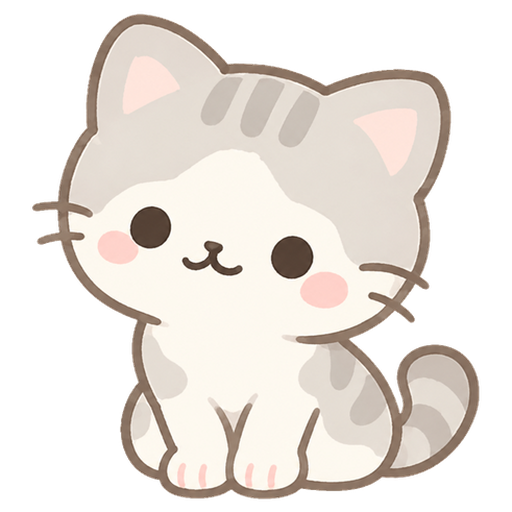
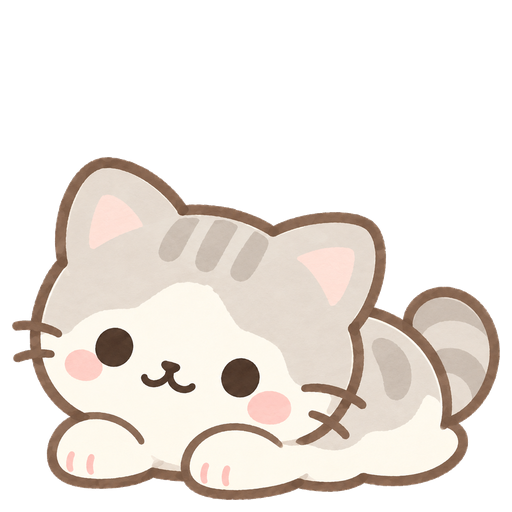
fix: 시그니처 눕기를 재제작하고 표정 모션 추가

diff --git a/src/components/room/__tests__/character-avatar.test.tsx b/src/components/room/__tests__/character-avatar.test.tsx
@@ -22,14 +22,24 @@ describe('CharacterAvatar', () => {
         prefetchFrames
       />,
     );
-    const seated = screen.getByTestId('approved-character').props.source;
+    const lying = screen.getByTestId('approved-character').props.source;
     expect(screen.queryByTestId('cdn-animation')).toBeNull();
     expect(prefetch).not.toHaveBeenCalled();
-    await screen.rerender(<CharacterAvatar characterId="cat" pose={1} />);
+    expect(lying).toEqual([
+      expect.objectContaining({ testUri: expect.stringContaining('cat-approved-idle') }),
+    ]);
+    const names = ['blink', 'wink', 'seated', 'wave'];
+    for (let pose = 1; pose <= names.length; pose++) {
+      await screen.rerender(<CharacterAvatar characterId="cat" pose={pose} />);
+      expect(screen.getByTestId('approved-character').props.source).toEqual([
+        expect.objectContaining({
+          testUri: expect.stringContaining(`cat-approved-${names[pose - 1]}`),
+        }),
+      ]);
+    }
     const wave = screen.getByTestId('approved-character').props.source;
-    expect(wave).not.toEqual(seated);
-    await screen.rerender(<CharacterAvatar characterId="cat" pose={2} />);
-    expect(screen.getByTestId('approved-character').props.source).toEqual(seated);
+    await screen.rerender(<CharacterAvatar characterId="cat" pose={5} />);
+    expect(screen.getByTestId('approved-character').props.source).toEqual(lying);
     await screen.rerender(<CharacterAvatar characterId="cat" pose={-1} />);
     expect(screen.getByTestId('approved-character').props.source).toEqual(wave);
   });

diff --git a/src/resources/character-art.ts b/src/resources/character-art.ts
@@ -1,11 +1,14 @@
 import type { CharacterId } from '@/constants/characters';
 
 import catIdle from '@/assets/images/characters/cat-approved-idle.webp';
+import catBlink from '@/assets/images/characters/cat-approved-blink.webp';
+import catWink from '@/assets/images/characters/cat-approved-wink.webp';
+import catSeated from '@/assets/images/characters/cat-approved-seated.webp';
 import catWave from '@/assets/images/characters/cat-approved-wave.webp';
 
 /** Reviewed poses supersede legacy server art until a new set is approved. */
 const APPROVED_POSES: Partial<Record<CharacterId, readonly number[]>> = {
-  cat: [catIdle, catWave],
+  cat: [catIdle, catBlink, catWink, catSeated, catWave],
 };
 
 export function approvedCharacterPoses(characterId: CharacterId) {

diff --git a/src/dev/registry.tsx b/src/dev/registry.tsx
@@ -521,7 +521,8 @@ export const galleryEntries: GalleryEntry[] = [
   },
   {
     name: 'Room · 승인된 고양이',
-    description: '앉기와 앞발 인사 두 포즈. 탭할 때 얼굴 크기와 발의 바닥 위치를 확인합니다.',
+    description:
+      '시그니처 눕기 → 눈깜빡임 → 윙크 → 앉기 → 인사. 눕기 원화와 표정 모션의 일관성을 확인합니다.',
     render: () => (
       <View style={{ width: 320, alignSelf: 'center' }}>
         <Room characterId="cat" interactiveCharacter />

diff --git a/scripts/build-signature-cat.py b/scripts/build-signature-cat.py
@@ -1,0 +1,79 @@
+"""시그니처 눕기 원화에서 눈만 바꾸어 깜빡임/윙크를 생성한다.
+
+Python 3, Pillow, numpy 필요. build-approved-cat.py 실행 후 실행한다.
+"""
+from pathlib import Path
+import json
+import numpy as np
+from PIL import Image, ImageDraw, ImageFilter, ImageSequence
+
+ROOT = Path(__file__).resolve().parents[1]
+SRC = ROOT / 'assets/characters/cat-approved'
+OUT = ROOT / 'assets/images/characters'
+base = Image.open(SRC / 'lying-master.png').convert('RGBA')
+closed = Image.open(SRC / 'lying-closed-reference.png').convert('RGBA')
+assert base.size == closed.size == (1254, 1254)
+eye_boxes = [(212, 618, 347, 762), (525, 695, 659, 838)]
+masks = []
+for box in eye_boxes:
+    mask = Image.new('L', base.size)
+    ImageDraw.Draw(mask).ellipse(box, fill=255)
+    masks.append(mask.filter(ImageFilter.GaussianBlur(4)))
+
+def expression(indices):
+    result = base.copy()
+    for index in indices:
+        result = Image.composite(closed, result, masks[index])
+    result.putalpha(base.getchannel('A'))
+    return result
+
+blink = expression([0, 1])
+wink = expression([1])
+outside_eyes = (np.asarray(masks[0]) == 0) & (np.asarray(masks[1]) == 0)
+for frame in (blink, wink):
+    assert np.array_equal(np.asarray(frame)[outside_eyes], np.asarray(base)[outside_eyes])
+
+# All lying expressions use the same crop, scale and ground anchor.
+bounds = base.getbbox()
+width, height = bounds[2] - bounds[0], bounds[3] - bounds[1]
+scale = 488 / max(width, height)
+size = (round(width * scale), round(height * scale))
+offset = ((512 - size[0]) // 2, 500 - size[1])
+
+def normalize(im):
+    canvas = Image.new('RGBA', (512, 512))
+    canvas.alpha_composite(im.crop(bounds).resize(size, Image.Resampling.LANCZOS), offset)
+    return canvas
+
+base, blink, wink = [normalize(im) for im in (base, blink, wink)]
+OUT.mkdir(exist_ok=True, parents=True)
+base.save(OUT / 'cat-approved-idle.webp', lossless=True, method=6)
+
+def save_loop(name, expressions, durations):
+    path = OUT / f'cat-approved-{name}.webp'
+    expressions[0].save(path, save_all=True, append_images=expressions[1:],
+                        duration=durations, loop=0, lossless=True, method=6)
+    encoded = Image.open(path)
+    arrays, actual_durations = [], []
+    for frame in ImageSequence.Iterator(encoded):
+        arrays.append(np.asarray(frame.convert('RGBA')))
+        actual_durations.append(frame.info['duration'])
+    assert sum(actual_durations) == 4000
+    assert all(np.array_equal(a[:, :, 3], arrays[0][:, :, 3]) for a in arrays)
+    # The nose, mouth, paws, silhouette and entire back/tail stay fixed.
+    for x0, y0, x1, y1 in [(145, 360, 210, 399), (0, 420, 512, 512), (395, 0, 512, 512)]:
+        assert all(np.array_equal(a[y0:y1, x0:x1], arrays[0][y0:y1, x0:x1]) for a in arrays)
+    visible = arrays[0][:, :, 3] > 0
+    assert np.array_equal(arrays[0][visible], arrays[-1][visible])
+    return {'duration_ms': sum(actual_durations), 'encoded_frames': len(arrays),
+            'fixed_alpha': True, 'fixed_body': True, 'seamless_visible_loop': True}
+
+checks = {
+    'blink': save_loop('blink', [base, blink, base, blink, base], [1700, 90, 110, 90, 2010]),
+    'wink': save_loop('wink', [base, wink, base], [1200, 650, 2150]),
+}
+report = {'default_pose': 'lying', 'size': [512, 512], 'ground_y': 500,
+          'eye_boxes_source': eye_boxes, 'pixels_outside_eye_masks_unchanged': True,
+          'poses': ['lying', 'blink', 'wink', 'seated', 'wave'], 'loops': checks}
+(SRC / 'signature-verification.json').write_text(json.dumps(report, indent=2) + '\n')
+print(json.dumps(report))

diff --git a/scripts/build-approved-cat.py b/scripts/build-approved-cat.py
@@ -39,19 +39,22 @@ left = (x0 + x1 - side) // 2
 crop = (left, y1 + 12 - side, left + side, y1 + 12)
 
 def normalize(im):
-    return im.crop(crop).resize((512, 512), Image.Resampling.LANCZOS)
+    pose = im.crop(crop).resize((460, 460), Image.Resampling.LANCZOS)
+    canvas = Image.new('RGBA', (512, 512))
+    canvas.alpha_composite(pose, (26, 51))
+    return canvas
 
 idle = normalize(idle)
 frames = [normalize(frame) for frame in frames]
 OUT.mkdir(parents=True, exist_ok=True)
-idle.save(OUT / 'cat-approved-idle.webp', lossless=True, method=6)
+idle.save(OUT / 'cat-approved-seated.webp', lossless=True, method=6)
 frames[0].save(OUT / 'cat-approved-wave.webp', save_all=True, append_images=frames[1:],
                duration=durations, loop=0, lossless=True, method=6)
 
 # Animation must contain a visible, fixed face and a seamless loop.
-face = np.asarray(frames[0].crop((120, 175, 320, 270)))
+face = np.asarray(frames[0].crop((120, 225, 330, 320)))
 assert face[:, :, 3].mean() > 245
-assert all(np.array_equal(face, np.asarray(f.crop((120, 175, 320, 270)))) for f in frames)
+assert all(np.array_equal(face, np.asarray(f.crop((120, 225, 330, 320)))) for f in frames)
 assert np.array_equal(np.asarray(frames[0]), np.asarray(frames[-1]))
 
 # WebP may discard RGB underneath alpha=0. Verify decoded visible pixels too.
@@ -61,9 +64,9 @@ first, last = decoded[0], decoded[-1]
 assert np.array_equal(first[:, :, 3], last[:, :, 3])
 visible = first[:, :, 3] > 0
 assert np.array_equal(first[visible], last[visible])
-assert all(np.array_equal(first[175:270, 120:320], f[175:270, 120:320]) for f in decoded)
+assert all(np.array_equal(first[225:320, 120:330], f[225:320, 120:330]) for f in decoded)
 metadata = {'size': [512, 512], 'duration_ms': sum(durations), 'crop_at_677x581': crop,
             'wave_face_max_difference': 0, 'wave_first_last_visible_difference': 0,
-            'source_frames': len(frames), 'poses': ['seated', 'wave']}
+            'seated_normalization_scale': 460 / 512, 'source_frames': len(frames), 'poses': ['seated', 'wave']}
 (SRC / 'verification.json').write_text('{\n' + ',\n'.join('  ' + json.dumps(k) + ': ' + json.dumps(v) for k, v in metadata.items()) + '\n}\n')
 print(json.dumps(metadata))

diff --git a/docs/cat-art-renewal.md b/docs/cat-art-renewal.md
@@ -1,40 +1,49 @@
-# 고양이 원화 통일
+# 고양이 시그니처 포즈 리뉴얼
 
-관련 이슈: #1250. 2026-09-09 사용자가 승인한 앉은 고양이와 해당 원화에서 앞발만 변형한 Blender 인사를 사용한다.
+관련 이슈: #1250. 누워 있는 시그니처를 기본 자세로 유지하면서 같은 원화에서 표정 모션을 만든다. 기존 앉기 시안과 Blender 인사는 추가 포즈로 제공한다.
 
-## 표시 규칙
+## 표시 순서
 
-- 고양이: `cat-approved-idle.webp`(앉기) → `cat-approved-wave.webp`(인사) → 앉기.
-- `CharacterAvatar`는 고양이의 서버 `poses`/`animations`보다 승인된 번들 포즈를 우선한다. 옛 서버 이미지 프리페치는 생략한다.
-- 캐릭터 선택창은 고양이의 `baseAssetKey` 대신 같은 승인 원화를 사용한다.
-- 뽑기 결과의 `characters/cat/...`, `characters/cat_...`, `characters/cat.png` 계열 이미지 키는 승인된 앉기 원화로 표시한다. 가구·다른 동물은 기존 경로를 유지한다.
-- 서버 캐릭터 보유 상태·선택 ID·카탈로그 데이터는 바꾸지 않는다. 이후 고양이 포즈를 추가하려면 `src/resources/character-art.ts`의 승인 목록을 함께 갱신해야 한다.
+1. `cat-approved-idle.webp`: 새로 그린 시그니처 눕기. 두 앞발을 내밀고 고개를 기울인 기본 자세.
+2. `cat-approved-blink.webp`: 누운 채 두 번 눈깜빡임, 4초 루프.
+3. `cat-approved-wink.webp`: 누운 채 한쪽 눈 윙크, 4초 루프.
+4. `cat-approved-seated.webp`: 기존 승인 앉기 원화.
+5. `cat-approved-wave.webp`: 앉아서 앞발 인사, 3초 루프.
 
-옛 `cat-1..4.webp`는 앱 에셋에서 제거했다. 눕기 원본은 캐릭터 정체성의 참고였으나, 현재 승인 세트의 얼굴 크기·발 위치와 맞지 않아 런타임 포즈에서는 제외했다. 옛 원본은 Git 이력에서 확인할 수 있다. `build:characters`는 고양이 옛 스프라이트를 재생성하지 않는다.
+인사 다음에는 눕기로 돌아간다. 프로필·선택창·뽑기 포스터도 눕기를 사용한다. 시그니처를 삭제하거나 앉기로 대체하지 않는다.
 
-## 원본과 재생성
+## 원화와 일관성
 
-`assets/characters/cat-approved/seated-master.png`는 승인된 앉기 원화, `wave-master.webp`는 Blender 렌더 결과이다. 앱은 `assets/images/characters/cat-approved-*.webp`만 import한다.
+눕기 원화는 기존 `cat-1.webp`의 자세와 사용자가 승인한 앉기 시안의 얼굴·그림체를 참조해 새로 제작했다. 눈을 감은 생성 결과에서는 눈 주변만 마스크로 사용하고, 나머지는 눕기 원화의 픽셀을 그대로 유지한다. 윙크는 동일한 눈 편집 중 한쪽만 적용한다.
+
+눈깜빡임·윙크에서 실루엣, 코·입, 앞발, 몸통, 꼬리는 움직이지 않는다. 원본 마스크 밖 픽셀 동일성과 디코딩한 WebP의 알파, 몸통, 루프 시작/끝을 검사한다. 결과는 `assets/characters/cat-approved/signature-verification.json`에 남는다.
+
+5종 모두 512×512 투명 캔버스를 사용한다. 눕기 3종은 같은 크롭/배율/바닥 좌표를 사용하고, 앉기·인사도 두 눈 사이 간격이 눕기와 비슷하도록 함께 축소한다. 눕기와 앉기 사이의 연결 동작은 포함하지 않는다.
+
+## 모바일 적용
+
+- `src/resources/character-art.ts`에 고양이 5포즈와 포스터 매핑을 모은다.
+- `CharacterAvatar`는 고양이의 옛 서버 `poses`/`animations`보다 리뉴얼 포즈를 우선한다. 구형 고양이 이미지 프리페치는 생략한다.
+- 캐릭터 선택창은 옛 `baseAssetKey` 대신 새 눕기 원화를 표시한다.
+- 뽑기 결과와 보상 목록의 `characters/cat/...`, `characters/cat_...`, `characters/cat.png` 계열 키도 새 눕기 포스터를 사용한다.
+- 다른 동물, 가구, 캐릭터 보유/선택 ID, 서버 카탈로그와 S3 원본은 유지한다. 새 서버 고양이 포즈를 노출하려면 리뉴얼 목록도 함께 갱신해야 한다.
+
+원래 4장의 번들 파일은 새 세트로 교체했다. 원본은 Git 이력에서 찾을 수 있다. `build:characters`는 고양이의 오래된 스트립을 재생성하지 않는다.
+
+## 재생성
+
+`assets/characters/cat-approved`에는 눕기 원화·눈 편집 참조, 승인 앉기 원화·Blender 인사 원본이 있다. 앱에는 `assets/images/characters/cat-approved-*.webp`만 import된다.
 
 Python 3, Pillow, numpy가 있는 환경에서:
 
 ```sh
 python3 scripts/build-approved-cat.py
+python3 scripts/build-signature-cat.py
+npx prettier --write assets/characters/cat-approved/*.json
 ```
 
-두 결과는 같은 크롭 좌표와 512×512 캔버스를 사용한다. 원화의 바깥 배경과 분리된 잡티만 제거하고, 얼굴 안쪽의 크림색은 보존한다. 인사는 3초 루프이며 앞발을 든 채 시작하고 끝난다. 앉기에서 팔을 드는 연결 모션은 포함하지 않는다. 각 애니메이션 프레임의 얼굴 영역과 처음/마지막 프레임이 동일한지 검사한다(`verification.json`).
+Expo SDK 55의 [Image](https://docs.expo.dev/versions/v55.0.0/sdk/image/)로 번들 WebP를 렌더한다. 개발 갤러리의 `Room · 승인된 고양이`에서 5번 탭하면 눕기 → 깜빡임 → 윙크 → 앉기 → 인사 → 눕기로 돌아온다.
 
-## 확인 방법
+웹 갤러리/자동 테스트 검증은 iOS·Android 설치본 검증과 별개다. 이 PR은 업데이트 배포 전이며 기존 S3 파일이나 서버 카탈로그를 삭제하지 않는다. 작업 이슈 #1250의 프로젝트 보드 등록은 CLI 토큰의 `read:project` 권한 부족으로 미완료다.
 
-개발 서버의 `/dev?entry=Room%20%C2%B7%20%EC%8A%B9%EC%9D%B8%EB%90%9C%20%EA%B3%A0%EC%96%91%EC%9D%B4`에서 고양이를 두 번 탭한다. 앉기 → 인사 → 앉기로 돌아가며 얼굴 크기와 발의 바닥 위치가 유지돼야 한다. 내 방, 친구 방, 프로필, 꾸미기, 온보딩은 같은 공용 아바타를 사용한다.
-
-Expo SDK 55의 [Image](https://docs.expo.dev/versions/v55.0.0/sdk/image/)로 번들 WebP를 렌더한다. 로컬 웹 갤러리와 자동 테스트 검증은 스토어 설치본 검증과 별개이며, 이 변경은 앱 업데이트를 배포해야 설치본에 적용된다. 기존 S3 파일이나 서버 카탈로그를 삭제하는 변경은 포함하지 않는다.
-
-## 검증 기록
-
-- 2026-09-09: TypeScript 검사와 포맷 검사 통과, lint 오류 0개(기존 app-shell 훅 경고 1개).
-- Jest 전체 239개 스위트, 1,919개 테스트 통과. 기존 열린 비동기 핸들 때문에 `--forceExit`를 사용했다.
-- 실제 Expo 웹 갤러리에서 앉기 → 인사 → 앉기 전환과 두 WebP의 표시를 확인했다. iOS/Android 설치본 검증과 배포는 미실행이다.
-- 작업 이슈 #1250을 생성했으나 GitHub CLI 토큰에 `read:project` 권한이 없어 프로젝트 보드 등록은 완료하지 못했다.
-
-![기존 4포즈와 승인된 2포즈 비교](assets/cat-art-renewal.jpg)
+![리뉴얼된 눕기와 5가지 포즈](assets/cat-art-renewal.jpg)
